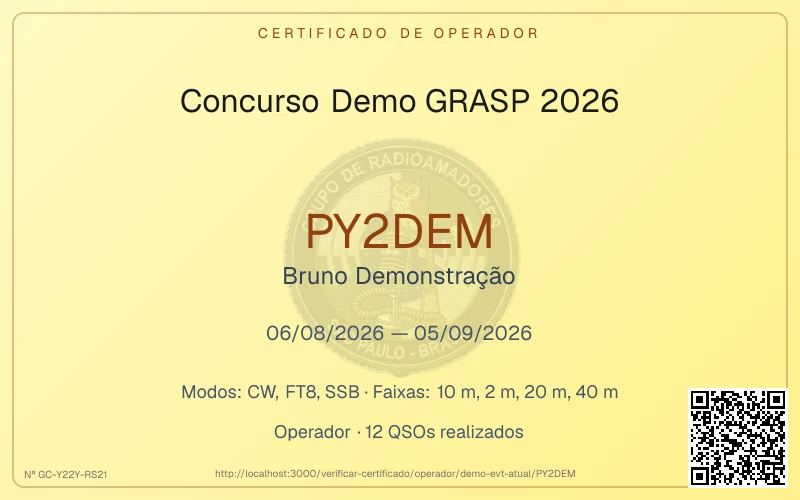
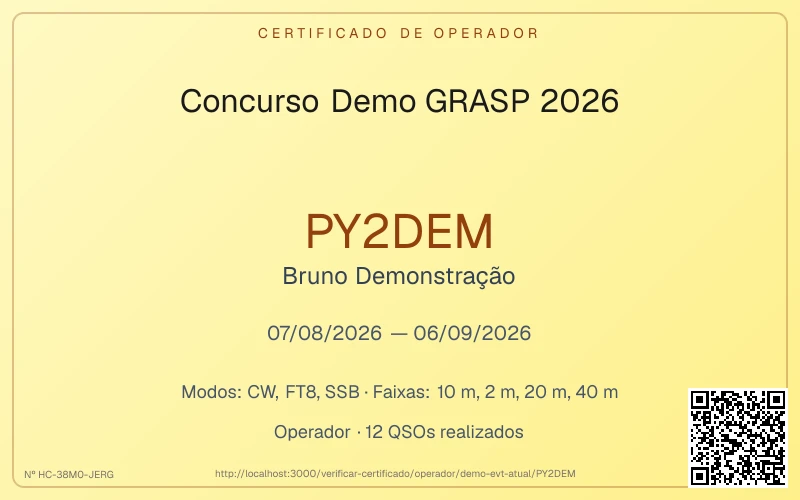
docs(ajuda): recaptura as telas do manual com a marca Ham Cert
Vinte das 34 capturas mostravam "GRASP Cert" na navbar, o certificado com
a marca d'água ou o número de série no formato antigo. As dimensões
declaradas em content.ts acompanham: esta tela rende 737px de viewport
contra os 807px de quem capturou antes, então algumas imagens ficaram
mais baixas.

Ficam de fora, de propósito, 23-2fa-qrcode (o QR passa a codificar o
issuer novo, mas nada muda visualmente) e as capturas que só mostram
formulários, sem marca.

Changed region(s): [[0.3125, 0.27, 0.6562, 0.75], [0.0625, 0.93, 0.1562, 0.96]]

diff --git a/src/app/ajuda/content.ts b/src/app/ajuda/content.ts
@@ -214,7 +214,7 @@ export const TUTORIAL_SECTIONS: TutorialSection[] = [
           src: "/ajuda/10-home-publica.webp",
           alt: 'Página inicial com as seções Acontecendo agora e Em breve, cada evento num cartão',
           width: 1120,
-          height: 740,
+          height: 737,
         },
       },
       {
@@ -223,7 +223,7 @@ export const TUTORIAL_SECTIONS: TutorialSection[] = [
           src: "/ajuda/11-evento-estatisticas.webp",
           alt: "Página de estatísticas do evento com os cartões Total de QSOs e Participantes e o ranking por indicativo",
           width: 1120,
-          height: 700,
+          height: 705,
         },
       },
     ],
@@ -242,7 +242,7 @@ export const TUTORIAL_SECTIONS: TutorialSection[] = [
           src: "/ajuda/30-eventos-operador.webp",
           alt: "Lista de eventos vista por um operador, com apenas um evento e somente a ação QSOs",
           width: 1120,
-          height: 240,
+          height: 245,
         },
       },
       {
@@ -251,7 +251,7 @@ export const TUTORIAL_SECTIONS: TutorialSection[] = [
           src: "/ajuda/31-qsos-do-evento.webp",
           alt: "Tela de QSOs do evento com o formulário Adicionar QSO, o painel Importar ADIF e a tabela de contatos",
           width: 1120,
-          height: 800,
+          height: 737,
         },
       },
       {
@@ -375,7 +375,7 @@ export const TUTORIAL_SECTIONS: TutorialSection[] = [
           src: "/ajuda/40-eventos-admin.webp",
           alt: "Lista de eventos vista por um administrador, com o botão Novo Evento e as ações Editar e Excluir",
           width: 1120,
-          height: 310,
+          height: 355,
         },
       },
       {
@@ -454,7 +454,7 @@ export const TUTORIAL_SECTIONS: TutorialSection[] = [
           src: "/ajuda/47-template-imagem-fundo.webp",
           alt: "Cartão de imagem de fundo do template com o seletor de arquivo e o botão Enviar",
           width: 1095,
-          height: 330,
+          height: 340,
         },
       },
       {
@@ -463,7 +463,7 @@ export const TUTORIAL_SECTIONS: TutorialSection[] = [
           src: "/ajuda/48-editor-template.webp",
           alt: "Editor visual do template com o campo Indicativo selecionado no certificado e o painel de ajustes ao lado",
           width: 1095,
-          height: 765,
+          height: 597,
           caption:
             "A âncora define que ponto do texto fica no X — é o que decide para que lado o campo cresce quando o dado real for mais longo que o exemplo.",
         },
@@ -510,7 +510,7 @@ export const TUTORIAL_SECTIONS: TutorialSection[] = [
           src: "/ajuda/52-auditoria-lista.webp",
           alt: "Tela de auditoria com as colunas Data, Autor, Ação e Resumo",
           width: 1120,
-          height: 330,
+          height: 380,
         },
       },
       {
@@ -519,7 +519,7 @@ export const TUTORIAL_SECTIONS: TutorialSection[] = [
           src: "/ajuda/53-auditoria-detalhes.webp",
           alt: "Registro de auditoria expandido mostrando os detalhes em JSON",
           width: 1120,
-          height: 440,
+          height: 470,
         },
       },
     ],
